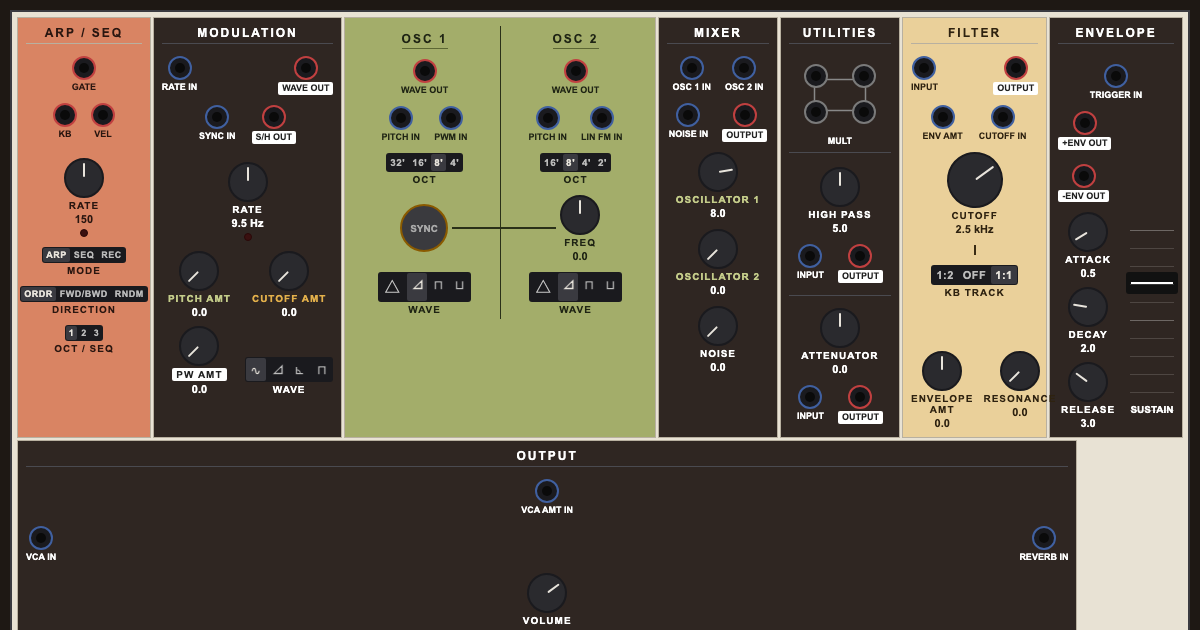
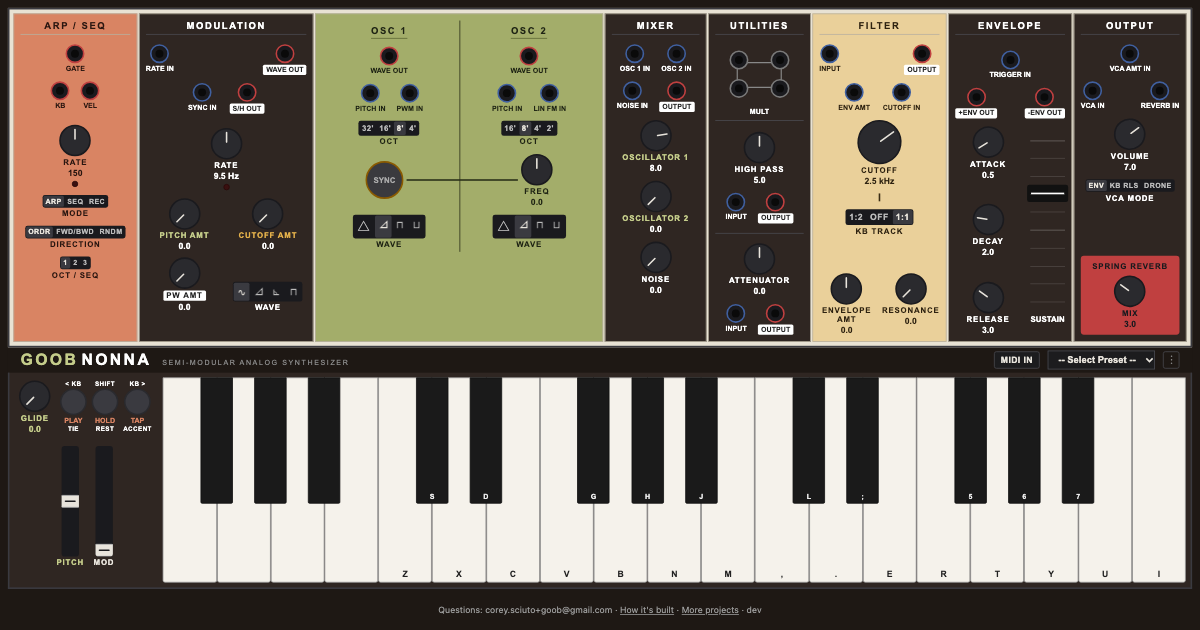
Preview: the whole synth, keyboard included
At 1200 px the panels wrap and the keyboard fell off the bottom; the preview is now
laid out at 1520 x 798 and scaled to 1200 x 630.

diff --git a/tests/e2e/smoke.spec.js b/tests/e2e/smoke.spec.js
@@ -15,10 +15,19 @@ test('app loads without errors', async ({ page }) => {
   await page.waitForLoadState('networkidle');
   await expect(page.locator(READY).first()).toBeVisible();
   expect(errors).toEqual([]);
-  if (process.env.UPDATE_PREVIEW) {
-    await page.waitForTimeout(750);
-    await page.screenshot({ path: PREVIEW });
-  }
+});
+
+// The preview: the whole synth, keyboard included. At 1200 px the panels wrap, so the page is laid out wider
+// (same 1200:630 shape) and scaled down to 1200 x 630.
+test('preview image', async ({ browser }) => {
+  test.skip(!process.env.UPDATE_PREVIEW, 'npm run screenshot');
+  const ctx = await browser.newContext({ viewport: { width: 1520, height: 798 }, deviceScaleFactor: 1200 / 1520 });
+  const page = await ctx.newPage();
+  await page.goto(APP);
+  await expect(page.locator(READY).first()).toBeVisible();
+  await page.waitForTimeout(750);
+  await page.screenshot({ path: PREVIEW });
+  await ctx.close();
 });
 
 test('contact and a link back to the projects page', async ({ page }) => {
